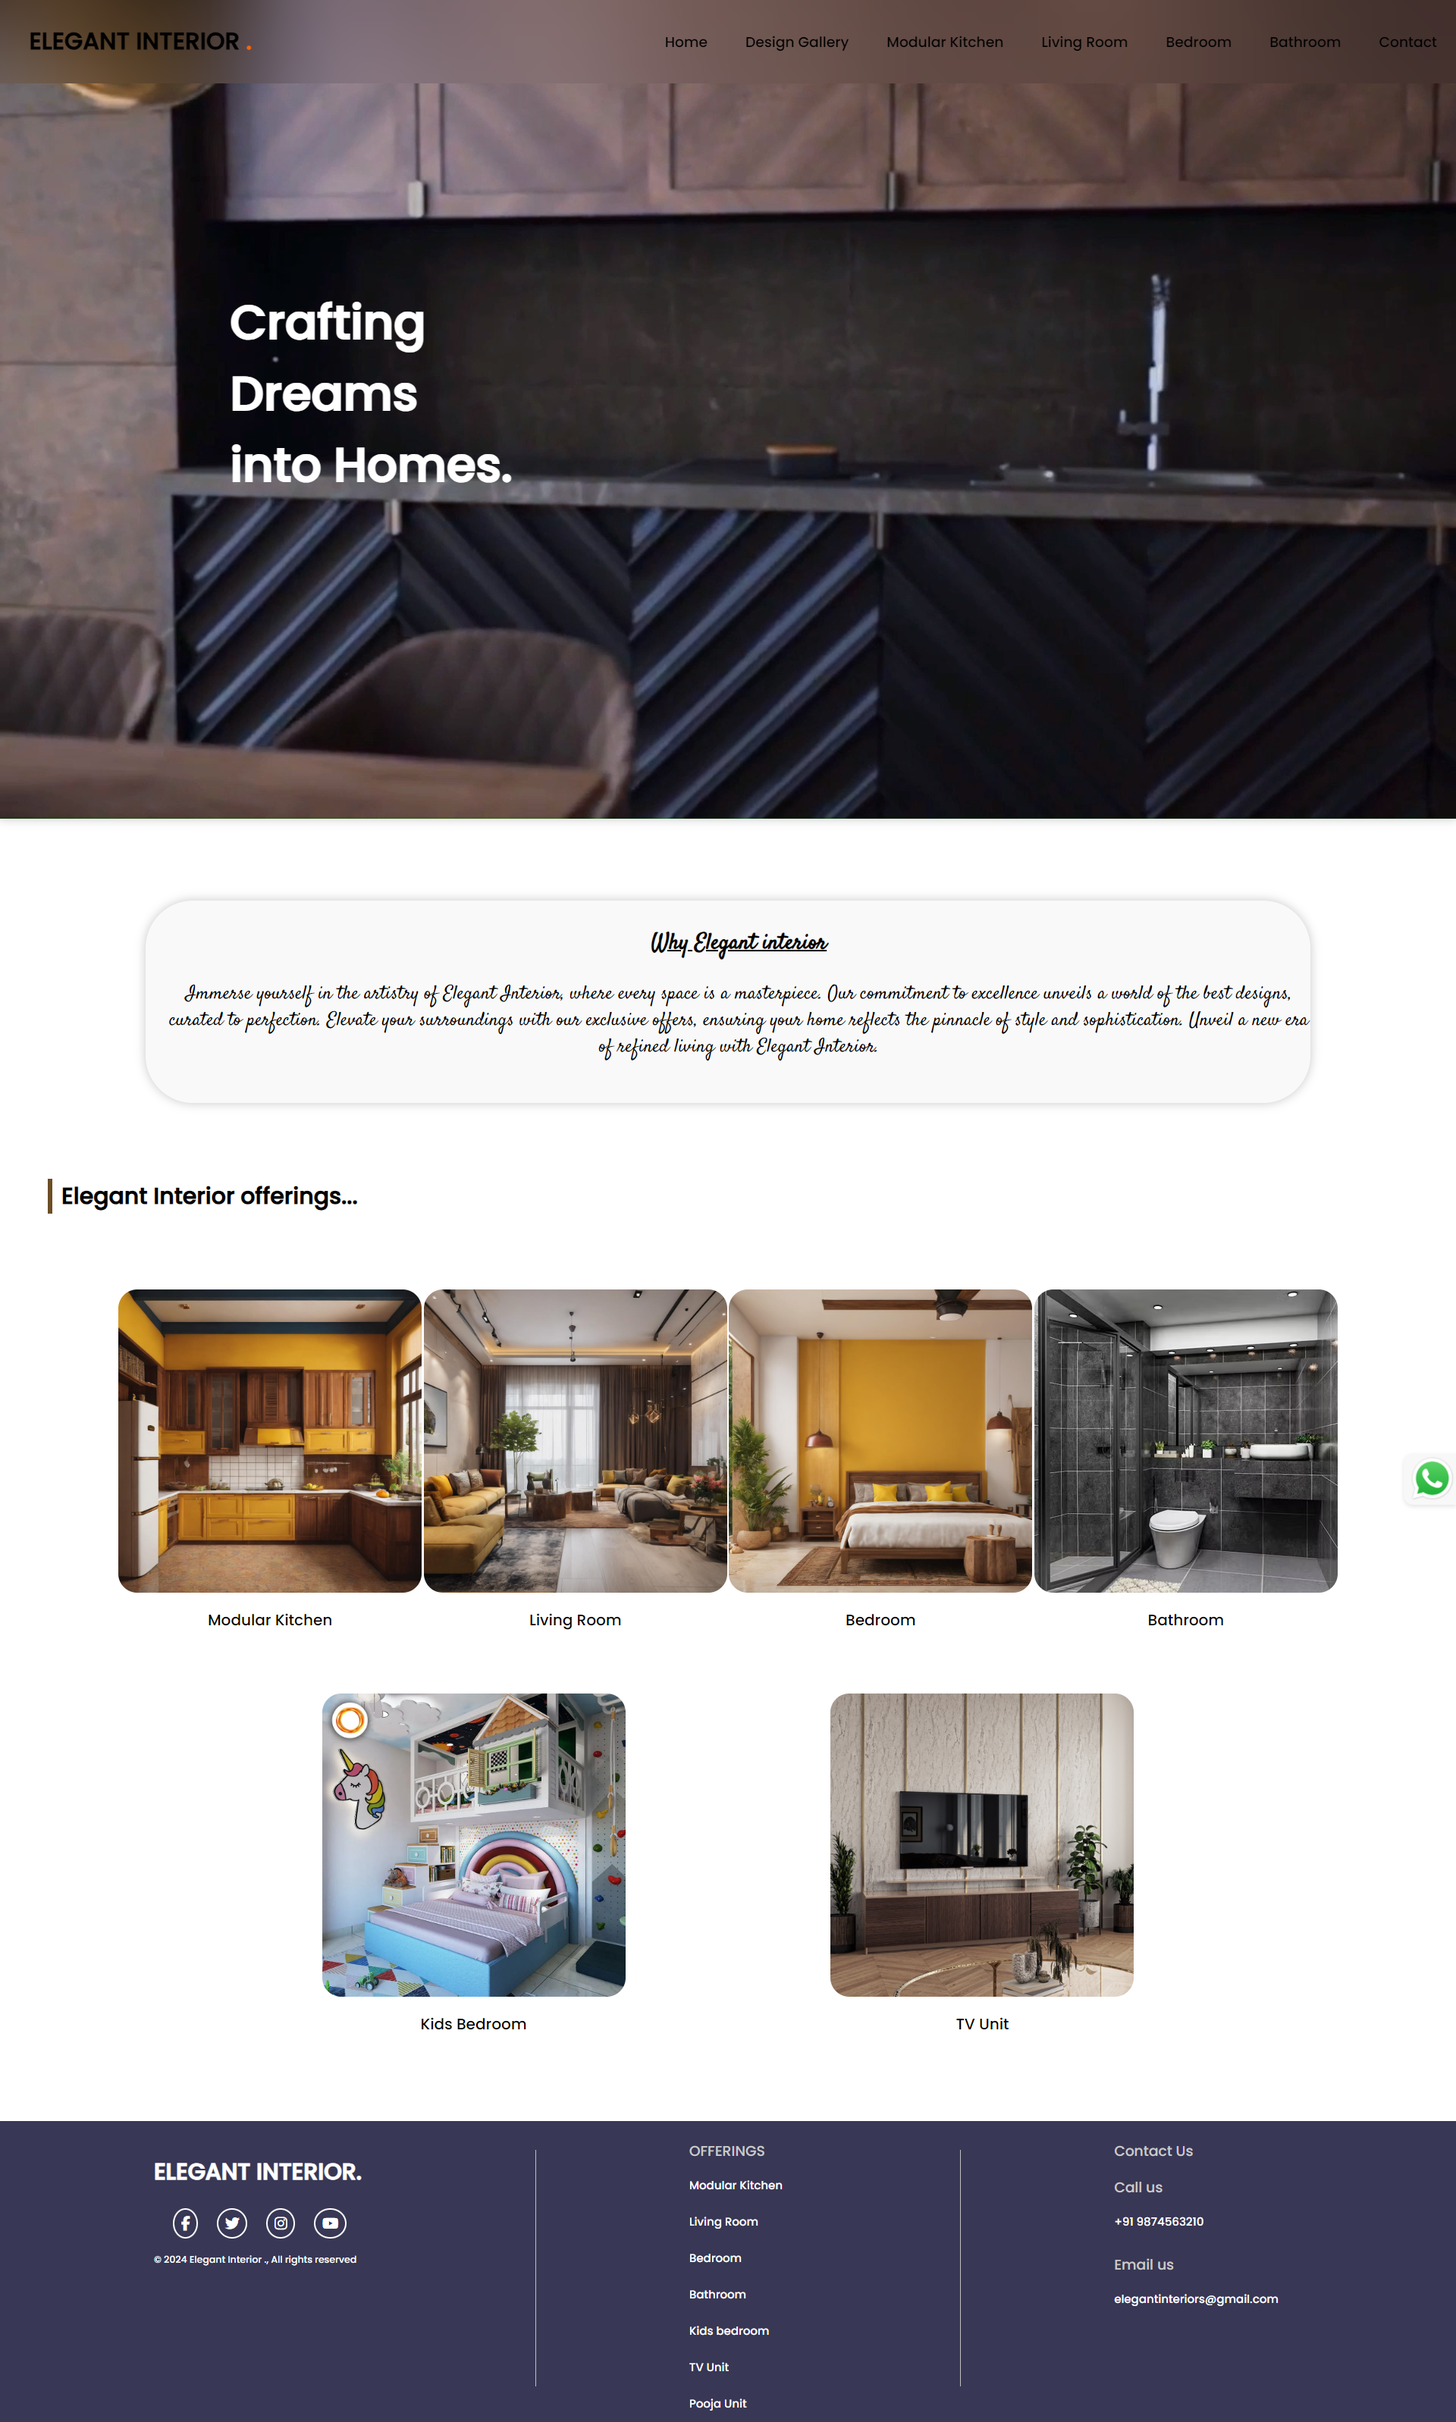
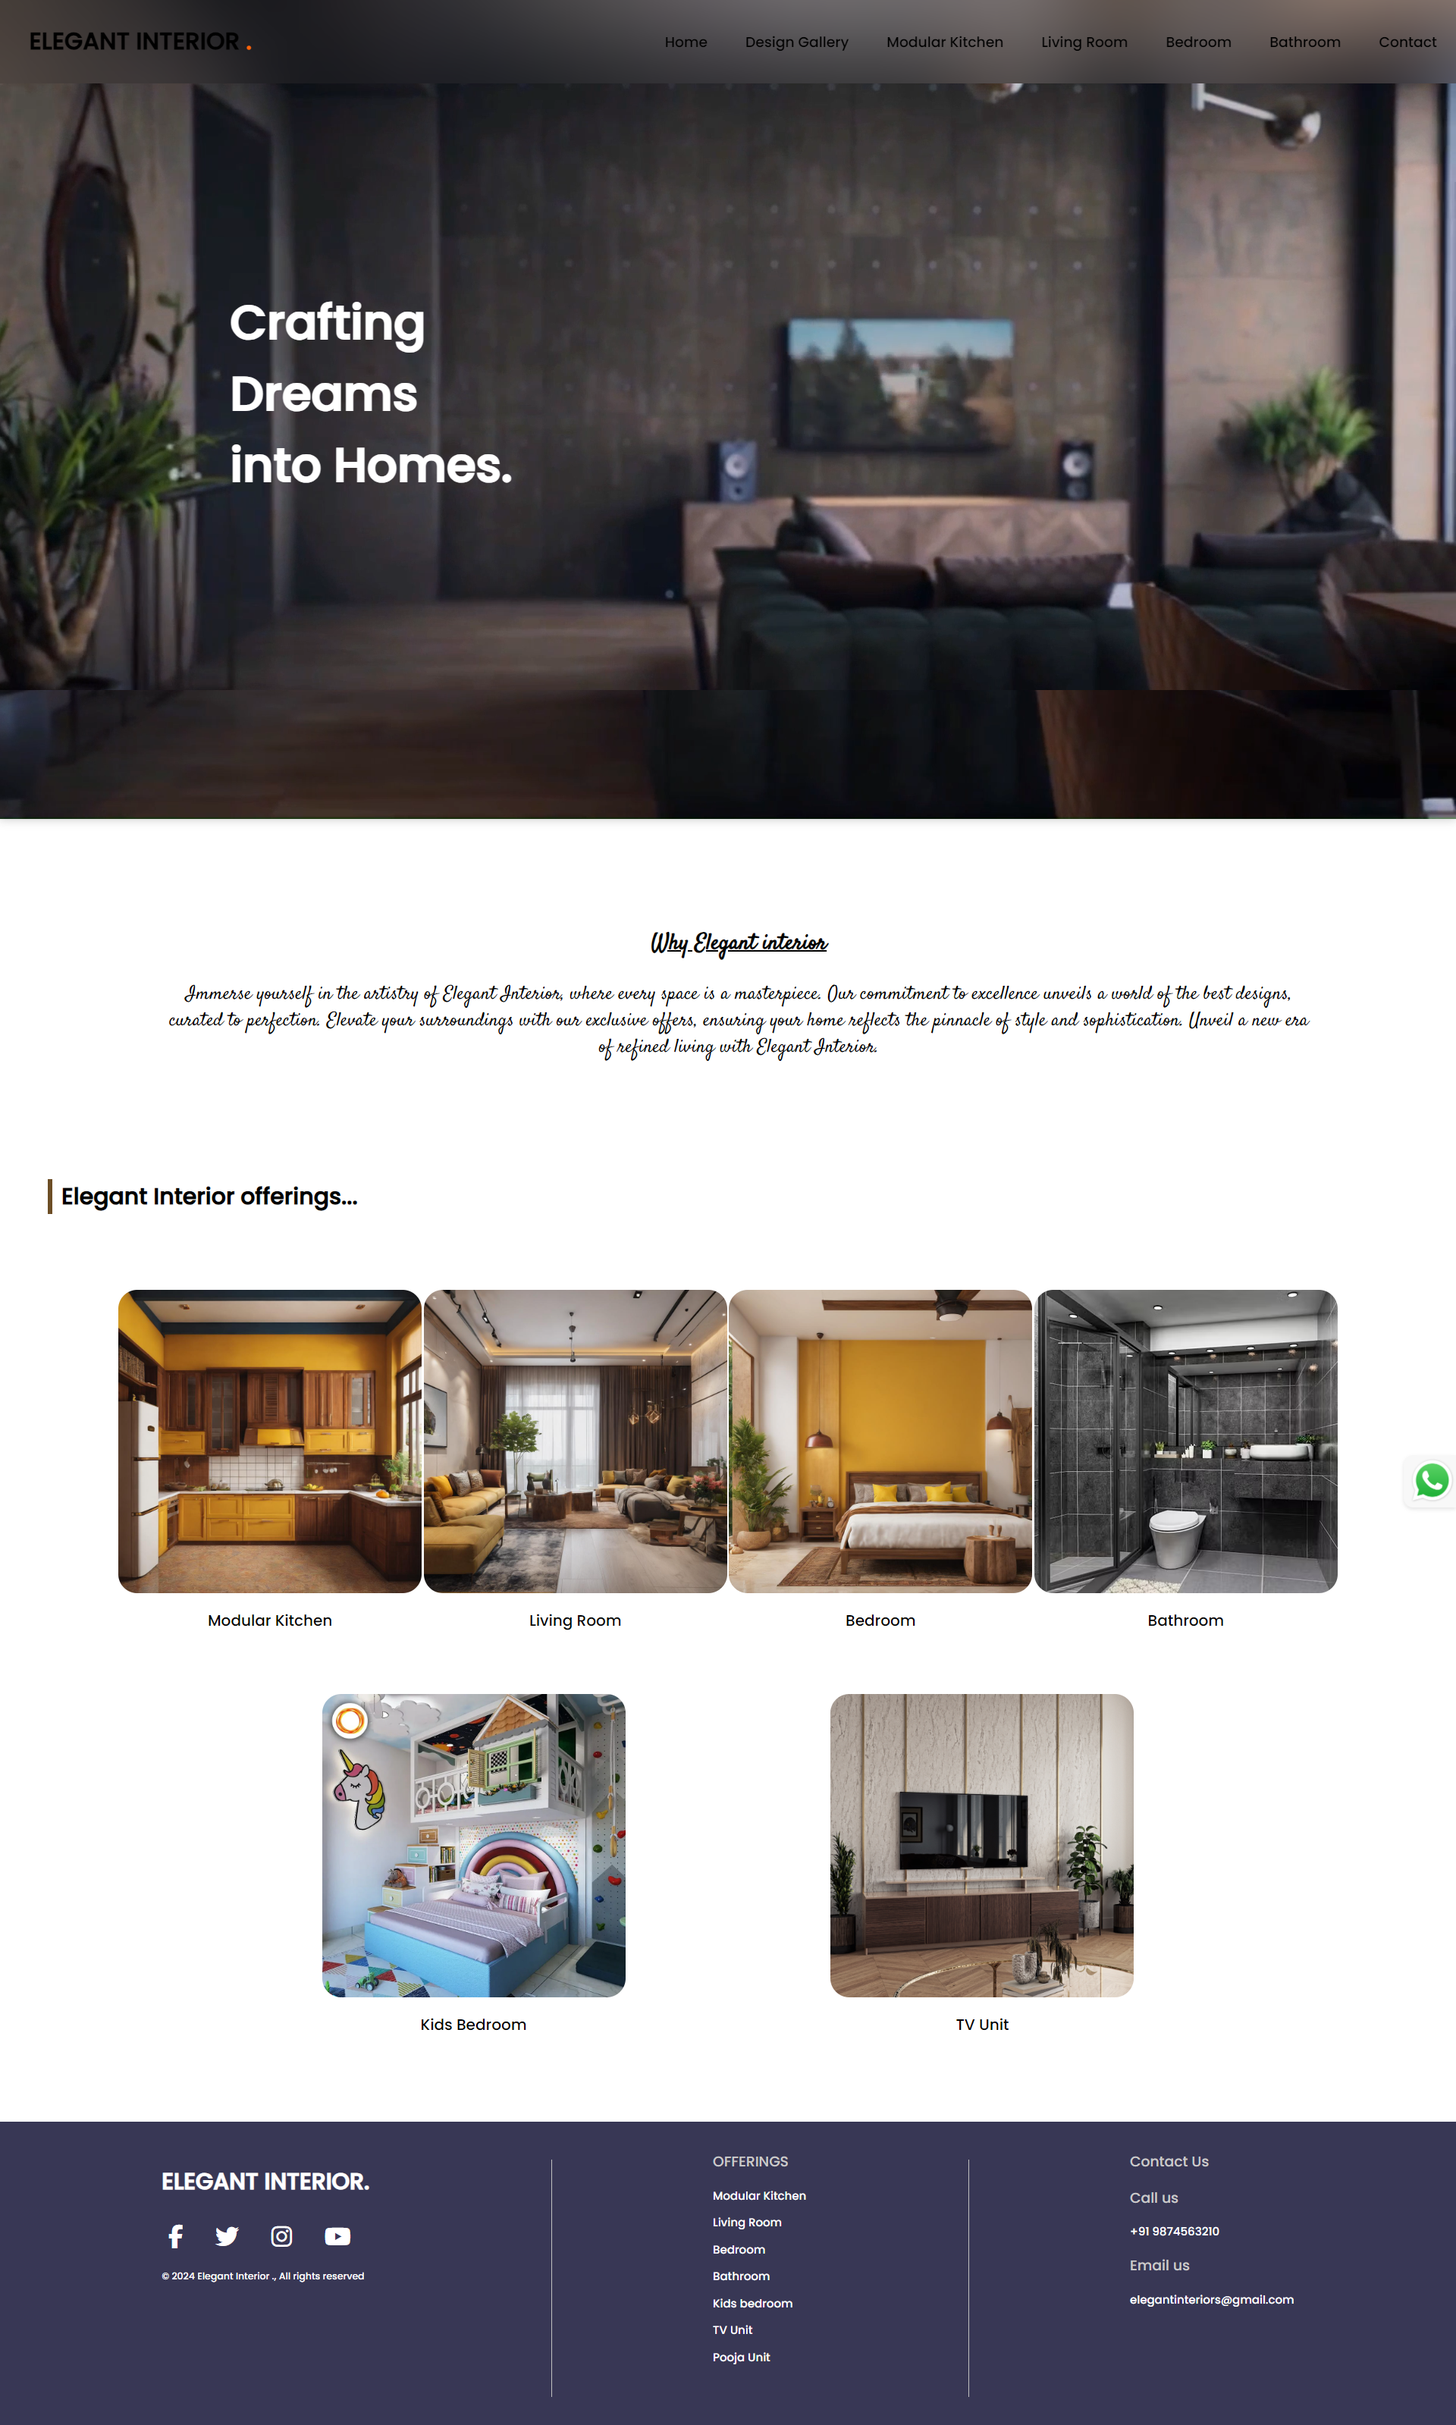
done

diff --git a/index.html b/index.html
@@ -32,31 +32,33 @@
         
         <ul class="collapse navbar-collapse nav justify-content-end" id="navbarNavAltMarkup">
             <div class="navbar-nav ">
-                <li><a class="nav-link mr-5" href="#">Home</a></li>
-                <li><a class="nav-link" href="#About">About</a></li>
-                <li><a class="nav-link" href="#Skills">Skills</a></li>
-                <li><a class="nav-link" href="#Project">Project</a></li>
-                <li><a class="nav-link" href="#Contact">Contact</a></li>
+              <li><a class="nav-link mr-5" href="#" id="home-link">Home</a></li>
+              <li><a class="nav-link" href="#About" id="about-link">About</a></li>
+              <li><a class="nav-link" href="#Skills" id="skills-link">Skills</a></li>
+              <li><a class="nav-link" href="#Project" id="project-link">Project</a></li>
+              <li><a class="nav-link" href="#Contact" id="contact-link">Contact</a></li>
             </div>
-        </ul>
-        
-        <img id="theme-toggler" src="https://cdn-icons-png.freepik.com/512/6714/6714978.png" class="darktheme2 card p-1"  alt="">
-        
+          </ul>
+          
+        <div class="darktheme-div card d-flex justify-content-center align-items-center ">
+        <img id="theme-toggler" src="./darkmode.png" class="darktheme2 card "  alt="theme button">
+        </div>
 
     </div>
 </nav>
 
 <div class="container1">
     <!-- Home -->
-    <div class="header-text1 d-flex flex-wrap-reverse justify-content-between mb-5 ">
-        <div class="info-sabari mt-3">
+    <div class="header-text1 d-flex flex-wrap-reverse justify-content-between pb-5">
+        <div class="info-sabari mt-3 mb-5">
             <h1>Hi ,I'm <br><span class="name">SABARI RAHUL <br></span></h1>
             <p>Web Developer</p>
-            <div class="social-icons">
-                <a href="https://linkedin.com/in/sabari-rahul-0369a221a" target="_blank"><img src="https://www.svgrepo.com/show/183624/linkedin.svg" style="width: 25px; height: 25px; margin-right: 5px;" alt=""></a>
-                <a href="https://github.com/sabarirahulm" target="_blank"><img src="https://www.svgrepo.com/show/331724/github-code-source.svg" style="width: 25px; height: 25px;margin-right: 5px" alt=""></a>
-                <a class="btn " href="Sabari rahul.pdf" role="button">Download CV</a>
+            <div class="social-icons d-flex align-items-end">
+                <a href="Sabari rahul.pdf" class="CV ps-4 pe-4"  role="button">Download CV <img src="https://www.freeiconspng.com/uploads/resume-icon-png-9.png" alt="github"> </a>
+                <a href="https://github.com/sabarirahulm" class="social-icons-bg" target="_blank"><img src="https://seeklogo.com/images/G/github-logo-7880D80B8D-seeklogo.com.png" alt="github"></a>
+                <a href="https://linkedin.com/in/sabari-rahul-0369a221a" class="social-icons-bg" target="_blank"><img src="https://i.pinimg.com/originals/86/32/54/863254f8c36146219554977cc345d584.png" alt="linkedin"></a>
             </div>
+            
         </div>
         <div class="imgbox">
             <img src="IMG_20220607_215541_734.jpg" alt="img">
@@ -280,27 +282,7 @@
                 <h1 class="sub-title text-center ">Contact</h1>
 
                 <div class="contact-left d-flex justify-content-around flex-wrap-reverse align-items-end">
-                <div class="footer py-3 bg-transparent mt-5">
-                    <div class=" text-center ">
-                        <p class="logo navbar-brand text-uppercase"><span id="S">S</span>abari Rahul.</p>
-                        <div class="social-icons mb-3">
-                            <a href="https://www.instagram.com/rahul.notie?igsh=Z3hsdnBueTFnbzU=" target="_blank"><img src="https://upload.wikimedia.org/wikipedia/commons/thumb/e/e7/Instagram_logo_2016.svg/2048px-Instagram_logo_2016.svg.png" style="width: 25px; height: 25px;margin-right: 10px" alt=""></a>
-                            <a href="https://linkedin.com/in/sabari-rahul-0369a221a" target="_blank"><img src="https://www.svgrepo.com/show/183624/linkedin.svg" style="width: 25px; height: 25px; margin-right: 10px;" alt=""></a>
-                            <a href="https://github.com/sabarirahulm" target="_blank"><img src="https://www.svgrepo.com/show/331724/github-code-source.svg" style="width: 25px; height: 25px;margin-right: 5px" alt=""></a>
-                            
-                            
-                        </div>
-                      <span >© sabarirahul. All rigths reserved 2024</span>
-                    </div>
-                </div>
-
-                <div class="d-flex mt-5" style="height: 200px;">
-                    <div class="vr"></div>
-                  </div>
-                
-
                   <div class="col-md-12 mt-5" style="width: 25rem;">
-                    
                     
                     <form id="myForm" name="submit-to-google-sheet">
                         <div class="mb-3">
@@ -324,10 +306,37 @@
                 </div>
 
             </div>
+            
+        </div>
+    </div>
+        <div class="footer py-3 bg-transparent mt-5" style="box-shadow: rgba(0, 0, 0, 0.02) 0px 1px 3px 0px, rgba(27, 31, 35, 0.15) 0px 0px 0px 1px;">
+            <div class=" text-center ">
+                <h1 class="logo navbar-brand text-uppercase"><span id="S">S</span>abari Rahul.</h1>
+                <div class="social-icons mb-3 d-flex justify-content-center">
+                    <a href="https://www.instagram.com/rahul.notie?igsh=Z3hsdnBueTFnbzU=" class="social-icons-bg" target="_blank"><img src="https://seeklogo.com/images/I/instagram-logo-A807AD378B-seeklogo.com.png" alt="github"></a>
+
+                    <a href="https://github.com/sabarirahulm" class="social-icons-bg" target="_blank"><img src="https://seeklogo.com/images/G/github-logo-7880D80B8D-seeklogo.com.png" alt="github"></a>
+
+                    <a href="https://linkedin.com/in/sabari-rahul-0369a221a" class="social-icons-bg" target="_blank"><img src="https://i.pinimg.com/originals/86/32/54/863254f8c36146219554977cc345d584.png" alt="linkedin"></a>
+                    
+                    
+                </div>
+              <span >© sabarirahul. All rigths reserved 2024</span>
+            </div>
+        </div>
+        <div class="social-icons-side d-flex flex-column justify-content-center align-items-center">
+            <a href="https://www.instagram.com/rahul.notie?igsh=Z3hsdnBueTFnbzU=" class="social-icons-bg-side" target="_blank"><img src="https://seeklogo.com/images/I/instagram-logo-A807AD378B-seeklogo.com.png" alt="github"></a>
+
+            <a href="https://linkedin.com/in/sabari-rahul-0369a221a" class="social-icons-bg-side" target="_blank"><img src="https://i.pinimg.com/originals/86/32/54/863254f8c36146219554977cc345d584.png" alt="linkedin"></a>
+
+            <a href="https://github.com/sabarirahulm" class="social-icons-bg-side" target="_blank"><img src="https://seeklogo.com/images/G/github-logo-7880D80B8D-seeklogo.com.png" alt="github"></a>
+
+            
+            
         </div>
         
 
-    </div>
+    
     </div>
 
     

diff --git a/style.css b/style.css
@@ -55,6 +55,10 @@ position: relative;
 font-weight: 510 !important;
 
 }
+nav ul li a.active {
+    color: rgb(36, 138, 221)e !important; 
+    border-bottom: 3px solid linear-gradient(to right, #00dbde 0%, #fc00ff 100%) !important;
+  }
 nav ul li a::after{
     content: '';
     width: 0;
@@ -108,6 +112,91 @@ nav ul li a:hover::after{
 #theme-toggler{
     cursor: pointer;
 }
+.social-icons-bg{
+    background-image: linear-gradient(-20deg, #4e41ff 0%, #21d4fd 100%);
+    display: flex;
+    width: 35px;
+    height: 35px;
+    justify-content: center;
+    align-items: center;
+    border-radius: 5px;
+}
+
+.social-icons-bg-side img{
+    height: 20px;
+    width: 20px;
+    filter: invert(1);
+    cursor: pointer;
+    -webkit-tap-highlight-color: transparent;
+}
+.social-icons-side{
+    background-image: linear-gradient(-20deg, #4e41ff 0%, #21d4fd 100%);
+    width: 40px;
+    position: absolute;
+    top: 40vh;
+    right: 0vh;
+    gap: 2rem;
+    padding: 30px 20px 30px 25px ;
+    border-radius: 15px 0px 0px 15px;
+}
+/* .darktheme2{
+    position: fixed;
+    right: 25px ;
+    top: 85vh;
+    width: 35px; 
+    height: 35px; 
+    background-color: white;
+    border-radius: 50%;
+    z-index: 3;
+} */
+
+.darktheme-div img{
+    height: 30px;
+    width: 30px;
+    cursor: pointer;
+    -webkit-tap-highlight-color: transparent !important; 
+    border-radius: 50%;
+}
+
+.darktheme-div{
+    background-image: linear-gradient(-20deg, #4e41ff 0%, #21d4fd 100%);
+    position: fixed;
+    top: 85vh;
+    right: 0vh; 
+    border-radius: 15px 0px 0px 15px;
+    padding: 10px;
+    border: none;
+}
+.social-icons-bg img{
+    height: 20px;
+    width: 20px;
+    filter: invert(1);
+    cursor: pointer;
+    -webkit-tap-highlight-color: transparent;
+}
+.social-icons{
+    gap: 1rem;
+}
+.CV img{
+    height: 22px;
+    width: 22px;
+    filter: invert(1);
+    cursor: pointer;
+    -webkit-tap-highlight-color: transparent;
+    border-radius: 5px;
+    color: white !important;
+}
+.CV{
+    background-image: linear-gradient(-20deg, #4e41ff 0%, #21d4fd 100%);
+    border-radius: 5px;
+    height: 35px;
+    width: auto;
+    text-decoration: none !important;
+    color: white !important;
+    font-size: 15px;
+    padding: 7px;
+    text-align: center;
+}
 
 /* about */
 
@@ -142,7 +231,11 @@ nav ul li a:hover::after{
 }
 .sub-title{
     font-size: 50px;
+    font-weight: 600 !important;
+    color: inherit;
 }
+
+
 .edu{
     font-size: 20px ;
     font-weight: 500;
@@ -160,10 +253,11 @@ nav ul li a:hover::after{
 }
 .cardgrad{
     /* background-image: linear-gradient(rgb(36, 138, 221) , rgb(145, 35, 255) ) !important; */
-    background-image: linear-gradient(-20deg, #b721ff 0%, #21d4fd 100%);
+    /* background-image: linear-gradient(-20deg, #b721ff 0%, #21d4fd 100%); */
     color: inherit !important;
     font-weight: 500 !important;
-    border: none !important;
+    background-color: inherit !important;
+    box-shadow: rgb(134, 176, 210) 0px 0px 0px 0.5px;
 }
 .cardgrad .card-body .card-title{
     font-weight: 500 !important;
@@ -173,10 +267,15 @@ nav ul li a:hover::after{
 }
 .btn{
     background-image: linear-gradient(-20deg, #b721ff 0%, #21d4fd 100%) !important;
+    color: white !important;
     border: none !important;
 }
 .nav-link.active {
     color: rgb(36, 138, 221) !important;
+}
+.progress-bar{
+    font-weight: 700 !important;
+    font-size: 16px !important;
 }
 
 
@@ -204,8 +303,9 @@ nav ul li a:hover::after{
 }
 
 .skill-card:hover{
-    transform: scale(1.05);
+    transform: scale(1.05) !important;
     transition: 0.8s;
+    box-shadow: rgba(50, 50, 93, 0.25) 0px 50px 100px -20px, rgba(0, 0, 0, 0.3) 0px 30px 60px -30px, rgba(10, 37, 64, 0.35) 0px -2px 6px 0px inset;
 }
 
 /* Style for skill card image */
@@ -217,17 +317,6 @@ nav ul li a:hover::after{
 /* Style for skill name */
 .skill-name {
     text-align: center; /* Center align the skill name */
-}
-.darktheme2{
-    position: fixed;
-    right: 25px ;
-    top: 85vh;
-    width: 40px; 
-    height: 40px; 
-    margin-left: 15px;
-    background-color: white;
-    border-radius: 50%;
-    z-index: 3;
 }
 
 /* contact */

diff --git a/index.js b/index.js
@@ -14,7 +14,17 @@ function showTab(tabName) {
 
     document.getElementById(tabName).style.display = 'block';
 }
-
+document.addEventListener('DOMContentLoaded', function() {
+    const links = document.querySelectorAll('.nav-link');
+  
+    links.forEach(link => {
+      link.addEventListener('click', function() {
+        links.forEach(item => item.classList.remove('active'));
+        this.classList.add('active');
+      });
+    });
+  });
+  
 const themeToggler = document.getElementById('theme-toggler');
 const body = document.body;
 
@@ -22,8 +32,8 @@ const body = document.body;
 function setTheme(theme) {
 body.classList.toggle('dark-theme', theme === 'dark'); // Apply the dark theme if theme is 'dark'
 const currentSrc = themeToggler.getAttribute('src');
-const lightThemeSrc = 'https://cdn-icons-png.freepik.com/512/6714/6714978.png';
-const darkThemeSrc = 'https://cdn-icons-png.freepik.com/256/12239/12239195.png';
+const lightThemeSrc = 'https://static.thenounproject.com/png/4157080-200.png';
+const darkThemeSrc = 'https://static.vecteezy.com/system/resources/previews/026/625/794/non_2x/light-mode-icon-symbol-design-illustration-vector.jpg';
 const newSrc = theme === 'dark' ? darkThemeSrc : lightThemeSrc;
 themeToggler.setAttribute('src', newSrc);
 }
@@ -34,7 +44,7 @@ const isDarkTheme = body.classList.contains('dark-theme');
 const theme = isDarkTheme ? 'light' : 'dark'; // Toggle theme between 'light' and 'dark'
 console.log('Toggling theme to:', theme); // Debugging statement
 localStorage.setItem('theme', theme); // Store the theme preference in local storage
-setTheme(theme); // Apply the theme
+setTheme(theme); // Apply the themehttps://static.thenounproject.com/png/4808961-200.png
 }
 
 // Check if a theme preference exists in local storage
